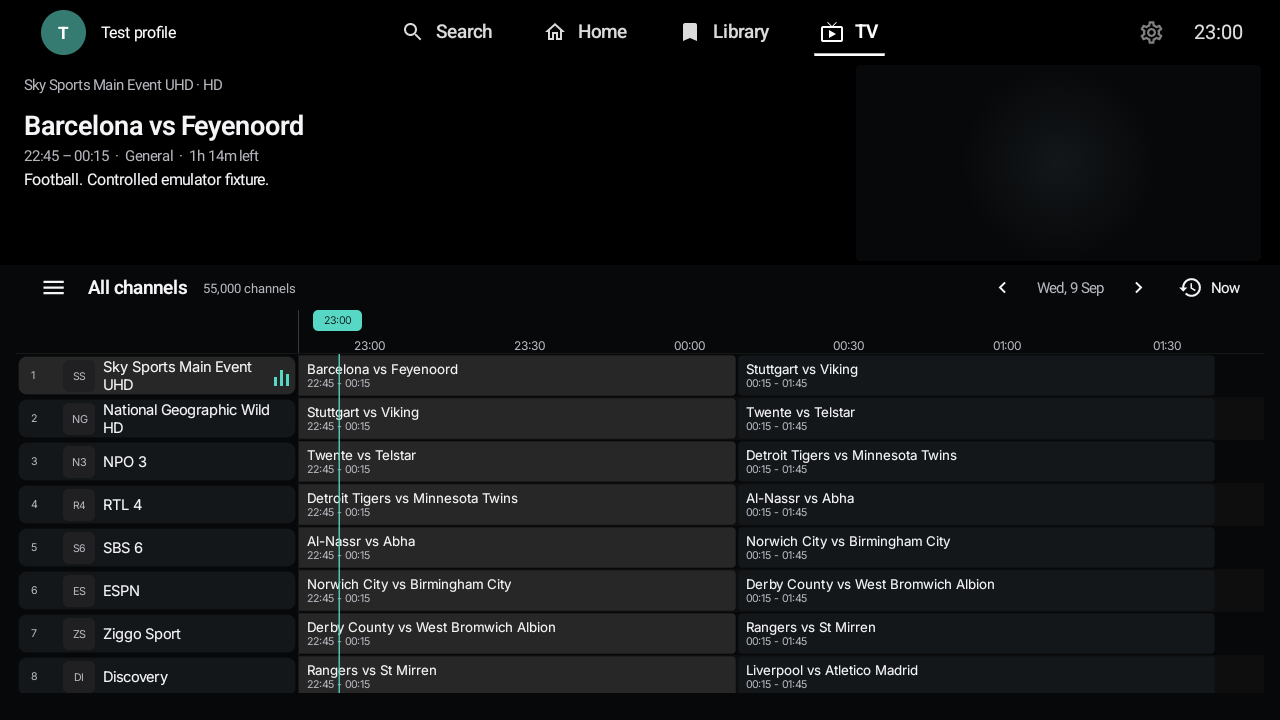
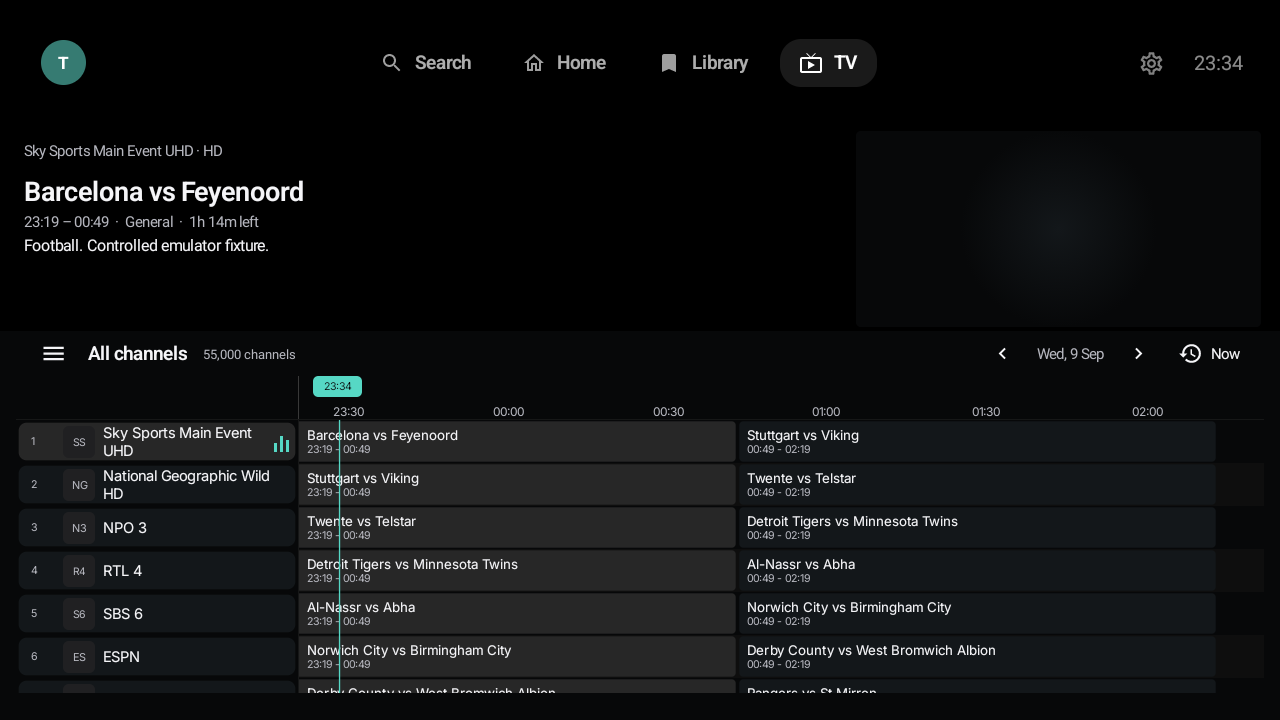
fix(tv): use consistent app navigation and transfer header focus

diff --git a/app/src/main/kotlin/com/arflix/tv/ui/components/AppTopBar.kt b/app/src/main/kotlin/com/arflix/tv/ui/components/AppTopBar.kt
@@ -29,11 +29,11 @@ import androidx.compose.runtime.setValue
 import androidx.compose.ui.Alignment
 import androidx.compose.ui.Modifier
 import androidx.compose.ui.draw.clip
-import androidx.compose.ui.draw.drawWithContent
 import androidx.compose.ui.graphics.Brush
 import androidx.compose.ui.graphics.Color
 import androidx.compose.ui.graphics.graphicsLayer
 import androidx.compose.ui.platform.LocalContext
+import androidx.compose.ui.platform.testTag
 import androidx.compose.ui.text.font.FontWeight
 import androidx.compose.ui.text.style.TextOverflow
 import androidx.compose.ui.unit.dp
@@ -55,7 +55,6 @@ import kotlinx.coroutines.delay
 import kotlinx.coroutines.flow.first
 
 val AppTopBarHeight = 82.dp
-val LiveTvTopBarHeight = 48.dp
 val AppTopBarTopPadding = 0.dp
 val AppTopBarContentTopInset = 98.dp
 /** On mobile/tablet where the topbar is hidden, use a small status-bar-like inset instead. */
@@ -103,8 +102,6 @@ fun AppTopBar(
     hasUpdateBadge: Boolean = false,
     modifier: Modifier = Modifier
 ) {
-    val guideHeader = selectedItem == SidebarItem.TV
-    val wideGuideHeader = guideHeader && profile != null && androidx.compose.ui.platform.LocalConfiguration.current.screenWidthDp >= 800
     val showProfile = profile != null
     val hasProfile = showProfile
     val currentTime = rememberTopBarTime(clockFormat)
@@ -116,8 +113,9 @@ fun AppTopBar(
 
     Box(
         modifier = modifier
+            .testTag("app-topbar")
             .fillMaxWidth()
-            .height(if (guideHeader) LiveTvTopBarHeight else AppTopBarContentTopInset)
+            .height(AppTopBarContentTopInset)
             .background(
                 Brush.verticalGradient(
                     colors = listOf(
@@ -131,8 +129,8 @@ fun AppTopBar(
         Row(
             modifier = Modifier
                 .fillMaxWidth()
-                .height(if (guideHeader) LiveTvTopBarHeight else AppTopBarHeight)
-                .padding(start = AppTopBarHorizontalPadding, end = AppTopBarHorizontalPadding, top = if (guideHeader) 0.dp else 12.dp),
+                .height(AppTopBarHeight)
+                .padding(start = AppTopBarHorizontalPadding, end = AppTopBarHorizontalPadding, top = 12.dp),
             verticalAlignment = Alignment.CenterVertically
         ) {
             // ── LEFT: Profile avatar (only if multiple profiles) ──
@@ -141,11 +139,6 @@ fun AppTopBar(
                     profile = profile,
                     isFocused = isFocused && focusedIndex == 0
                 )
-                if (wideGuideHeader) {
-                    Text(profile.name, color = Color.White, fontSize = 12.sp, maxLines = 1,
-                        overflow = androidx.compose.ui.text.style.TextOverflow.Ellipsis,
-                        modifier = Modifier.width(94.dp).padding(start = 8.dp))
-                }
                 Spacer(modifier = Modifier.width(16.dp))
             }
 
@@ -165,7 +158,6 @@ fun AppTopBar(
                             item = item,
                             isFocused = isFocused && focusedIndex == itemFocusIndex,
                             isSelected = selectedIndex == itemFocusIndex,
-                            underlined = guideHeader,
                         )
                     }
                 }
@@ -173,7 +165,6 @@ fun AppTopBar(
 
             // ── RIGHT: Settings gear + clock ──
             Row(
-                modifier = if (wideGuideHeader) Modifier.width(150.dp) else Modifier,
                 verticalAlignment = Alignment.CenterVertically,
                 horizontalArrangement = Arrangement.spacedBy(14.dp, Alignment.End)
             ) {
@@ -188,7 +179,7 @@ fun AppTopBar(
                     text = currentTime,
                     fontSize = 15.sp,
                     fontWeight = FontWeight.Normal,
-                    color = Color.White.copy(alpha = if (guideHeader) 0.88f else 0.55f)
+                    color = Color.White.copy(alpha = 0.55f)
                 )
             }
         }
@@ -201,14 +192,13 @@ private fun TopBarNavChip(
     item: SidebarItem,
     isFocused: Boolean,
     isSelected: Boolean,
-    underlined: Boolean = false,
 ) {
-    val accent = if (underlined) Color.White else resolveAccentColor(fallback = Color.White)
+    val accent = resolveAccentColor(fallback = Color.White)
 
     val containerColor by animateColorAsState(
         targetValue = when {
             isFocused -> Color.White.copy(alpha = 0.2f)
-            isSelected && !underlined -> Color.White.copy(alpha = 0.1f)
+            isSelected -> Color.White.copy(alpha = 0.1f)
             else -> Color.Transparent
         },
         animationSpec = tween(AnimationConstants.DURATION_FAST),
@@ -218,7 +208,7 @@ private fun TopBarNavChip(
         targetValue = when {
             isFocused -> Color.White  // focused icon stays white (wins over selected)
             isSelected -> accent  // selected icon gets accent
-            else -> Color.White.copy(alpha = if (underlined) 0.86f else 0.62f)
+            else -> Color.White.copy(alpha = 0.62f)
         },
         animationSpec = tween(AnimationConstants.DURATION_FAST),
         label = "topbar_icon_color"
@@ -227,7 +217,7 @@ private fun TopBarNavChip(
         targetValue = when {
             isFocused -> Color.White  // focused text stays white (wins over selected)
             isSelected -> accent  // selected text gets accent
-            else -> Color.White.copy(alpha = if (underlined) 0.86f else 0.68f)
+            else -> Color.White.copy(alpha = 0.68f)
         },
         animationSpec = tween(AnimationConstants.DURATION_FAST),
         label = "topbar_text_color"
@@ -245,11 +235,7 @@ private fun TopBarNavChip(
 
     Row(
         modifier = Modifier
-            .then(if (underlined && isSelected) Modifier.drawWithContent {
-                drawContent()
-                drawRect(Color.White, androidx.compose.ui.geometry.Offset(10.dp.toPx(), size.height - 2.dp.toPx()),
-                    androidx.compose.ui.geometry.Size(size.width - 20.dp.toPx(), 2.dp.toPx()))
-            } else Modifier)
+            .testTag("topbar-item-${item.name}")
             .clip(RoundedCornerShape(16.dp))
             .background(containerColor)
             .graphicsLayer {
@@ -269,7 +255,8 @@ private fun TopBarNavChip(
         Text(
             text = label,
             fontSize = 14.sp,
-            fontWeight = if (isFocused || isSelected) FontWeight.SemiBold else FontWeight.Medium,
+            // Keep label metrics stable when selection/focus moves between pages.
+            fontWeight = FontWeight.SemiBold,
             color = textColor,
             maxLines = 1,
             overflow = TextOverflow.Ellipsis
@@ -315,6 +302,7 @@ private fun TopBarSettingsGear(
 
     Box(
         modifier = Modifier
+            .testTag("topbar-item-SETTINGS")
             .size(36.dp)
             .clip(CircleShape)
             .background(containerColor)
@@ -368,6 +356,7 @@ private fun TopBarProfileAvatar(
 
     Box(
         modifier = Modifier
+            .testTag("topbar-profile")
             .size(40.dp)
             .clip(CircleShape)
             .background(containerColor)

diff --git a/app/src/androidTest/kotlin/com/arflix/tv/ui/components/AppTopBarDeviceTest.kt b/app/src/androidTest/kotlin/com/arflix/tv/ui/components/AppTopBarDeviceTest.kt
@@ -1,0 +1,84 @@
+package com.arflix.tv.ui.components
+
+import androidx.compose.foundation.background
+import androidx.compose.foundation.layout.Box
+import androidx.compose.foundation.layout.fillMaxSize
+import androidx.compose.runtime.mutableIntStateOf
+import androidx.compose.runtime.mutableStateOf
+import androidx.compose.ui.Modifier
+import androidx.compose.ui.graphics.Color
+import androidx.compose.ui.graphics.asAndroidBitmap
+import androidx.compose.ui.test.assertHeightIsEqualTo
+import androidx.compose.ui.test.captureToImage
+import androidx.compose.ui.test.junit4.createComposeRule
+import androidx.compose.ui.test.onNodeWithTag
+import com.arflix.tv.data.model.Profile
+import com.arflix.tv.ui.theme.ArvioTvTheme
+import org.junit.Assert.assertEquals
+import org.junit.Assert.assertTrue
+import org.junit.Rule
+import org.junit.Test
+
+class AppTopBarDeviceTest {
+    @get:Rule val compose = createComposeRule()
+
+    private val profile = Profile(id = "topbar-test", name = "A long test profile name", avatarColor = 0xFF367B72)
+    private val tags = SidebarItem.entries.map { "topbar-item-${it.name}" }
+
+    @Test fun navigationBoundsStayTheSameOnEveryPage() {
+        val page = mutableStateOf(SidebarItem.HOME)
+        val showProfile = mutableStateOf(true)
+        compose.setContent {
+            ArvioTvTheme {
+                Box(Modifier.fillMaxSize().background(Color.Black)) {
+                    AppTopBar(page.value, false, 0, profile = profile.takeIf { showProfile.value })
+                }
+            }
+        }
+        for (withProfile in listOf(true, false)) {
+            compose.runOnIdle { showProfile.value = withProfile; page.value = SidebarItem.HOME }
+            compose.waitForIdle()
+            val expected = tags.map { compose.onNodeWithTag(it).fetchSemanticsNode().boundsInRoot }
+            for (destination in SidebarItem.entries) {
+                compose.runOnIdle { page.value = destination }
+                compose.waitForIdle()
+                compose.onNodeWithTag("app-topbar").assertHeightIsEqualTo(AppTopBarContentTopInset)
+                assertEquals("Navigation moved on $destination (profile=$withProfile)", expected,
+                    tags.map { compose.onNodeWithTag(it).fetchSemanticsNode().boundsInRoot })
+            }
+        }
+    }
+
+    @Test fun focusedNavigationRendersIdenticallyRegardlessOfCurrentPage() {
+        val page = mutableStateOf(SidebarItem.HOME)
+        val focused = mutableIntStateOf(0)
+        compose.setContent {
+            ArvioTvTheme {
+                Box(Modifier.fillMaxSize().background(Color.Black)) {
+                    AppTopBar(page.value, true, focused.intValue, profile = profile)
+                }
+            }
+        }
+        // The current page must not change the focused item's shape, tint or position.
+        for (tag in listOf("topbar-profile") + tags) {
+            val index = if (tag == "topbar-profile") 0 else
+                topBarSelectedIndex(SidebarItem.valueOf(tag.removePrefix("topbar-item-")), true)
+            compose.runOnIdle { focused.intValue = index; page.value = SidebarItem.HOME }
+            compose.waitForIdle()
+            val expected = compose.onNodeWithTag(tag).captureToImage().asAndroidBitmap()
+            val bounds = compose.onNodeWithTag(tag).fetchSemanticsNode().boundsInRoot
+            try {
+                for (destination in SidebarItem.entries) {
+                    compose.runOnIdle { page.value = destination }
+                    compose.waitForIdle()
+                    val actual = compose.onNodeWithTag(tag).captureToImage().asAndroidBitmap()
+                    try {
+                        assertEquals("Focused $tag moved on $destination", bounds,
+                            compose.onNodeWithTag(tag).fetchSemanticsNode().boundsInRoot)
+                        assertTrue("Focused $tag changed appearance on $destination", expected.sameAs(actual))
+                    } finally { actual.recycle() }
+                }
+            } finally { expected.recycle() }
+        }
+    }
+}

diff --git a/app/src/main/kotlin/com/arflix/tv/ui/screens/tv/live/LiveTvScreen.kt b/app/src/main/kotlin/com/arflix/tv/ui/screens/tv/live/LiveTvScreen.kt
@@ -114,7 +114,7 @@ import com.arflix.tv.ui.screens.profile.PinEntryDialog
 import com.arflix.tv.network.OkHttpProvider
 import com.arflix.tv.ui.components.AppTopBar
 import com.arflix.tv.ui.components.KeepScreenOn
-import com.arflix.tv.ui.components.AppTopBarHeight
+import com.arflix.tv.ui.components.AppTopBarContentTopInset
 import com.arflix.tv.ui.components.SidebarItem
 import com.arflix.tv.ui.components.topBarFocusedItem
 import com.arflix.tv.ui.components.topBarMaxIndex
@@ -529,7 +529,7 @@ fun LiveTvScreen(
     val compactTouchLayout = isTouchDevice && configuration.screenWidthDp < 900
     val landscapeCompactMiniPlayer = miniPlayerLayout == LiveTvMiniPlayerLayout.LANDSCAPE_COMPACT
     val showTopBar = !isTouchDevice
-    val contentTopPadding = if (showTopBar) com.arflix.tv.ui.components.LiveTvTopBarHeight else 0.dp
+    val contentTopPadding = if (showTopBar) AppTopBarContentTopInset else 0.dp
     val coroutineScope = rememberCoroutineScope()
     val guideClockMillis by produceState(initialValue = System.currentTimeMillis()) {
         while (true) {
@@ -878,6 +878,7 @@ fun LiveTvScreen(
     var topBarFocusIndex by rememberSaveable {
         mutableIntStateOf(topBarSelectedIndex(SidebarItem.TV, hasProfile).coerceIn(0, maxTopBarIndex))
     }
+    val topBarFocusRequester = remember { FocusRequester() }
     var lastGuideUserNavigationAt by remember { mutableLongStateOf(0L) }
     fun noteGuideUserNavigation() {
         lastGuideUserNavigationAt = System.currentTimeMillis()
@@ -3214,16 +3215,7 @@ fun LiveTvScreen(
                 }
             )
         } else {
-            // Content starts right under the pill row — 52 dp puts the first
-            // row/search field 4 dp below the pills. The remaining top-bar
-            // gradient tail is transparent enough to vanish over our near-
-            // black Bg so the two regions read as one surface.
-            // Content sits under the top bar (82dp tall with a dark-to-
-            // transparent gradient). Starting at 0dp lets the grid/sidebar
-            // background bleed up into the transparent tail of the gradient
-            // so the two regions read as one surface instead of a hovering
-            // chip row. The content itself gets an internal top padding so
-            // nothing important renders under the opaque chips.
+            // Both drawer and guide use the shared app header inset.
             if (useTouchRail) {
                 Column(
                     modifier = Modifier
@@ -3832,7 +3824,12 @@ fun LiveTvScreen(
                     focusedIndex = if (focusZone == LiveTvFocusZone.TOPBAR) topBarFocusIndex else -1,
                     profile = currentProfile,
                     profileCount = 1,
+                    modifier = Modifier.focusRequester(topBarFocusRequester)
+                        .focusable(enabled = focusZone == LiveTvFocusZone.TOPBAR),
                 )
+                LaunchedEffect(focusZone) {
+                    if (focusZone == LiveTvFocusZone.TOPBAR) topBarFocusRequester.requestFocus()
+                }
             }
         }
 

diff --git a/app/src/androidTest/kotlin/com/arflix/tv/ui/screens/tv/live/TvOverhaulDeviceTest.kt b/app/src/androidTest/kotlin/com/arflix/tv/ui/screens/tv/live/TvOverhaulDeviceTest.kt
@@ -14,7 +14,7 @@ import androidx.media3.exoplayer.ExoPlayer
 import androidx.test.platform.app.InstrumentationRegistry
 import com.arflix.tv.data.model.*
 import com.arflix.tv.ui.components.AppTopBar
-import com.arflix.tv.ui.components.AppTopBarHeight
+import com.arflix.tv.ui.components.AppTopBarContentTopInset
 import com.arflix.tv.ui.components.SidebarItem
 import org.junit.Assert.*
 import org.junit.Rule
@@ -82,7 +82,7 @@ class TvOverhaulDeviceTest {
         try {
             compose.setContent {
                 Box(Modifier.fillMaxSize()) {
-                    Box(Modifier.fillMaxSize().padding(top = com.arflix.tv.ui.components.LiveTvTopBarHeight)) {
+                    Box(Modifier.fillMaxSize().padding(top = AppTopBarContentTopInset)) {
                         LiveDrawerWorkspace(expanded.value, contentKey = if (sports.value) "sports" else "guide",
                             sidebarWidth = LiveDims.SidebarExpanded, sidebar = {
                             CategorySidebar(tree = tree, selectedId = if (sports.value) SPORTS_GUIDE_CATEGORY else "all",

diff --git a/docs/tv-overhaul/README.md b/docs/tv-overhaul/README.md
@@ -31,6 +31,11 @@ Do not merge until the remaining gates below have been addressed.
 - Wider categories and channel columns, fixed-height two-line names and focused-only
   marquees for longer labels. The group heading is Categories. Redundant wide-guide
   Watch live/Programme guide actions and the extra ON AIR heading were removed.
+- The TV top bar uses the same height, spacing, profile avatar, selected capsule
+  and focus animation as other app pages. No TV-only underline, profile-name slot
+  or brightness overrides. Tab label metrics remain stable during focus changes.
+  Entering the TV top bar transfers actual focus out of the sidebar, preventing
+  a stale search/category focus ring from remaining visible underneath it.
 - Readable sidebar counts, corrected local Inter variable-font weights, balanced TV
   navigation, guide gutters, and separate timeline-label/current-time-marker tracks.
 - A dimmed event picker with first-playable-source focus and origin-card focus return.
@@ -146,6 +151,12 @@ No image or scanning change adds IPTV stream probes or broad provider requests.
 Web cold-start checks also caught a cancelled guide timer that blocked later batches
 on effect replay, and local last-channel restoration causing a hydration mismatch.
 Timer state is now reset on cleanup and local selection restored after mount.
+
+Top-bar follow-up: four emulator checks passed (two new shared-header regressions
+and the two existing overhaul UI tests). Bounds remain identical across all five
+destinations with/without a profile, and the focused profile/tab/settings pixels
+match across destinations. A real-app D-pad check also repeated the sidebar/top-bar
+handoff three times and continued into categories without retaining two focus rings.
 
 The automated five-state captures use controlled programme/channel fixtures and
 an inactive mini-player. Sports artwork comes from a captured public addon catalog;
